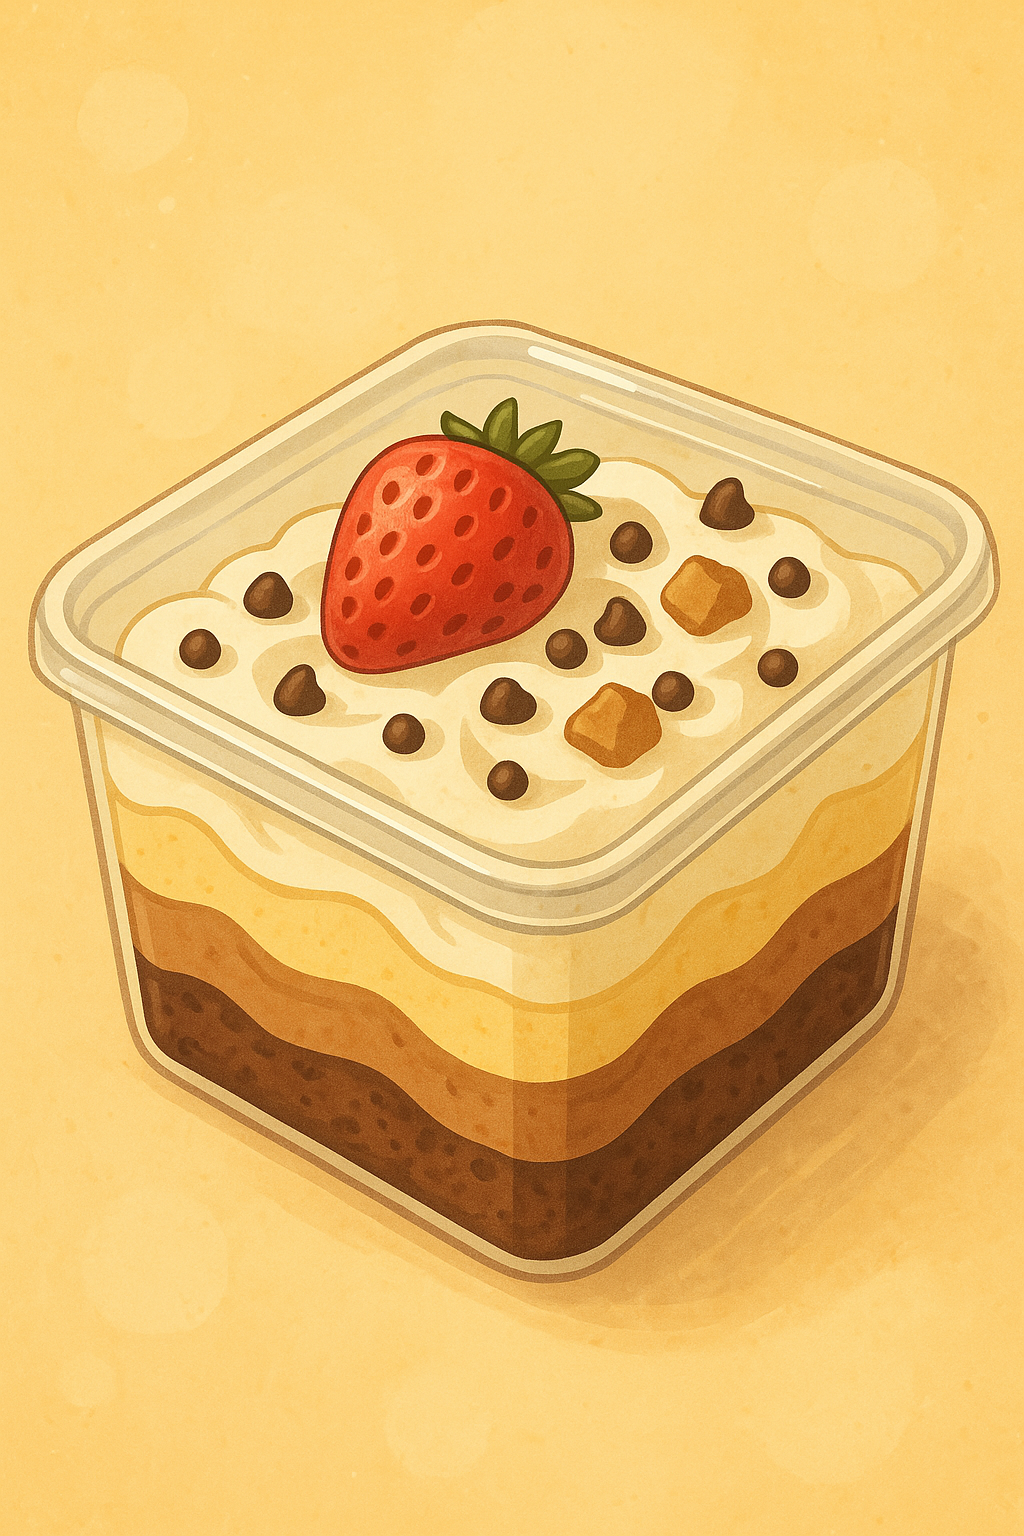
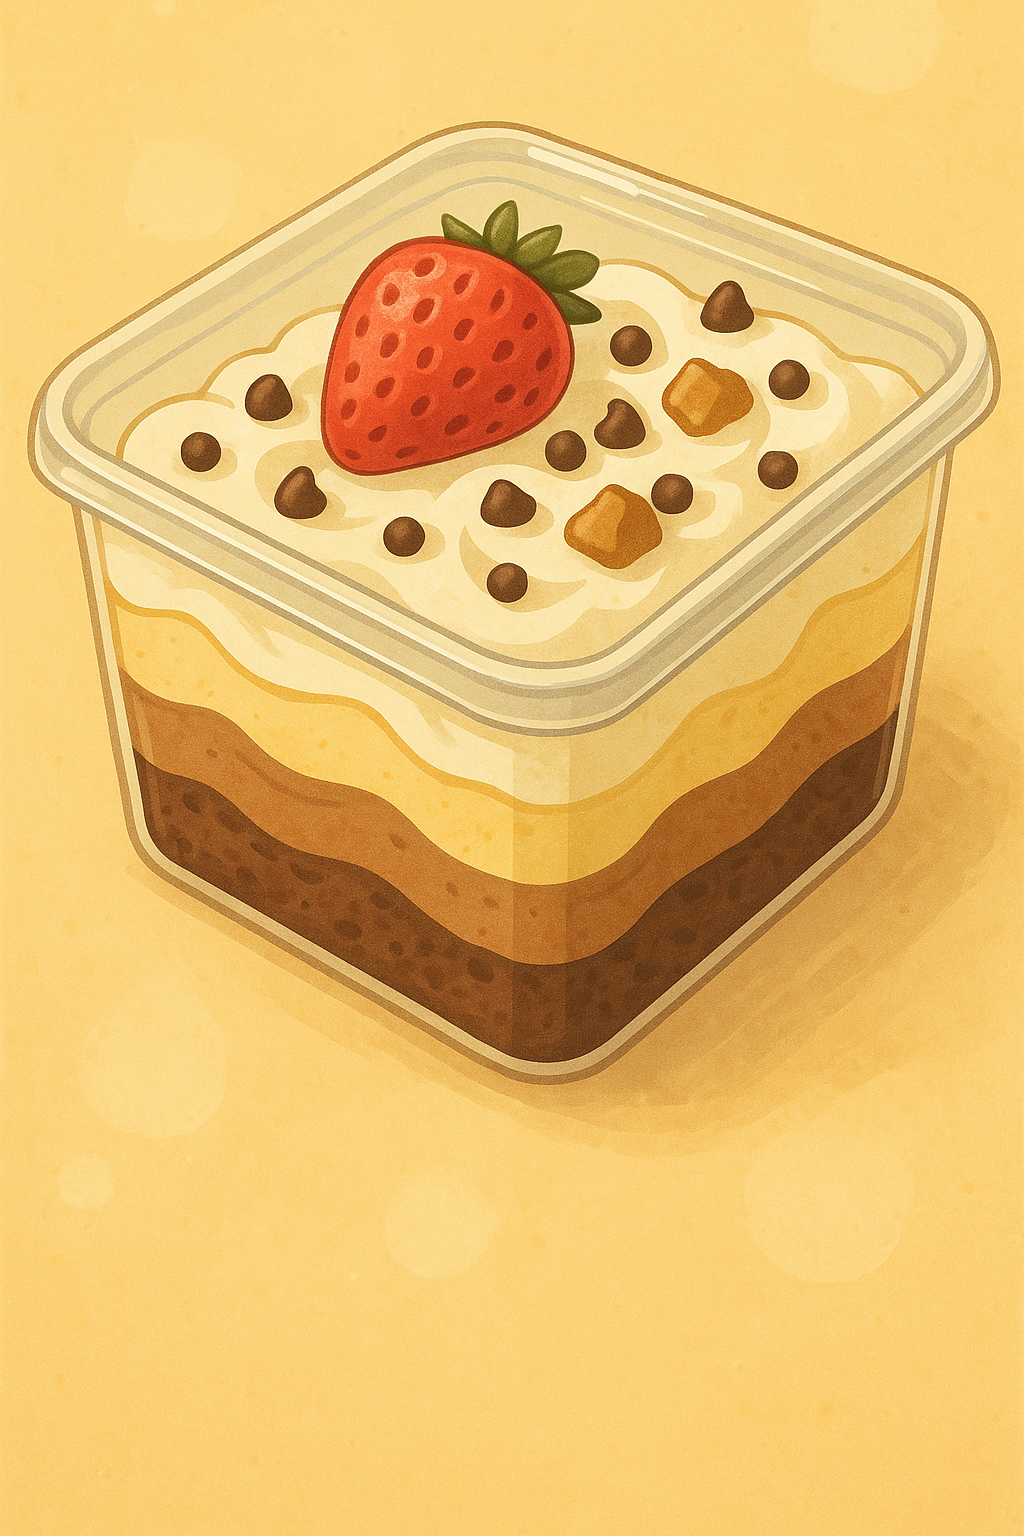
feat: Create dessert box landing page
This commit introduces a landing page for a dessert box application. The page features an image of a dessert box and a card with a title, description, and a "Mulai" button. The background color is set to a light yellow, and the card is styled with rounded corners and padding.

diff --git a/lib/main.dart b/lib/main.dart
@@ -54,19 +54,6 @@ class MyHomePage extends StatefulWidget {
 }
 
 class _MyHomePageState extends State<MyHomePage> {
-  int _counter = 0;
-
-  void _incrementCounter() {
-    setState(() {
-      // This call to setState tells the Flutter framework that something has
-      // changed in this State, which causes it to rerun the build method below
-      // so that the display can reflect the updated values. If we changed
-      // _counter without calling setState(), then the build method would not be
-      // called again, and so nothing would appear to happen.
-      _counter++;
-    });
-  }
-
   @override
   Widget build(BuildContext context) {
     // This method is rerun every time setState is called, for instance as done
@@ -75,10 +62,57 @@ class _MyHomePageState extends State<MyHomePage> {
     // The Flutter framework has been optimized to make rerunning build methods
     // fast, so that you can just rebuild anything that needs updating rather
     // than having to individually change instances of widgets.
-    return Stack(
-      children: [
-        Image.asset(name)
-      ],
-    )
+    return Scaffold(
+      backgroundColor: Color(0xFFFCD57C),
+      body: Stack(
+        fit: StackFit.expand,
+        alignment: Alignment.bottomCenter,
+        children: [
+          Image.asset("images/dessert-box.png"),
+          Positioned(
+            bottom: 0,
+            left: 0,
+            right: 0,
+            child: Column(
+              crossAxisAlignment: CrossAxisAlignment.stretch,
+              children: [
+                Card(
+                  margin: const EdgeInsets.all(24.0),
+                  child: Padding(
+                    padding: const EdgeInsets.all(24.0),
+                    child: Column(
+                      children: [
+                        Text(
+                          "Temukan Dessert Box Kesukaanmu Disini",
+                          textAlign: TextAlign.center,
+                          style: TextStyle(
+                            fontSize: 24.0,
+                            fontWeight: FontWeight.bold,
+                          ),
+                        ),
+                        SizedBox(height: 8.0),
+                        Text(
+                          "Temukan dan coba dessert box terbaik kami",
+                          textAlign: TextAlign.center,
+                          style: TextStyle(color: Colors.grey),
+                        ),
+                        SizedBox(height: 16.0),
+                        FilledButton(
+                          onPressed: () {},
+                          child: Text(
+                            'Mulai',
+                            style: TextStyle(fontSize: 16.0),
+                          ),
+                        ),
+                      ],
+                    ),
+                  ),
+                ),
+              ],
+            ),
+          ),
+        ],
+      ),
+    );
   }
 }
